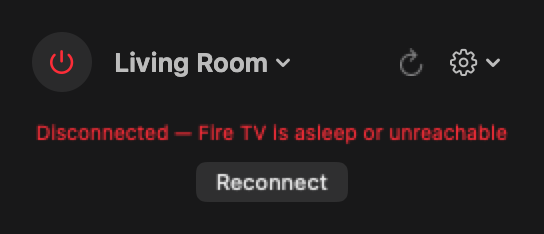
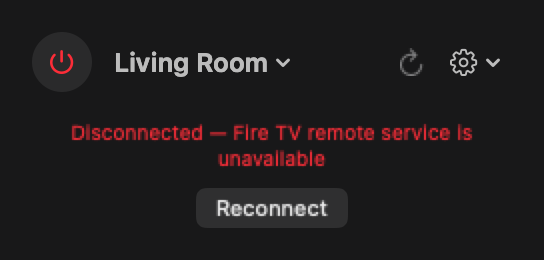
Separate live and saved TVs and diagnose stopped Fire TV remote service

diff --git a/Sources/UniversalTVRemote/Discovery.swift b/Sources/UniversalTVRemote/Discovery.swift
@@ -28,6 +28,14 @@ final class DiscoveryEngine: NSObject, ObservableObject {
     /// Everything we know about: remembered devices merged with live finds.
     @Published private(set) var devices: [DiscoveredTV] = []
     @Published private(set) var isScanning = false
+    @Published private(set) var availableDeviceIDs: Set<String> = []
+
+    var availableDevices: [DiscoveredTV] { devices.filter { availableDeviceIDs.contains($0.id) } }
+    var savedDevices: [DiscoveredTV] { devices.filter { !availableDeviceIDs.contains($0.id) } }
+    private var bonjourServices: [String: String] = [:]
+    private var announcedServices: Set<String> = []
+    private var lastSeen: [String: Date] = [:]
+    private var refreshTimer: Timer?
 
     private var browsers: [NWBrowser] = []
     private let ssdpQueue = DispatchQueue(label: "ssdp.scan", qos: .utility)
@@ -54,10 +62,18 @@ final class DiscoveryEngine: NSObject, ObservableObject {
         startBonjourBrowser(serviceType: "_androidtvremote2._tcp", brand: .androidTV)
         startBonjourBrowser(serviceType: "_amzn-wplay._tcp", brand: .fireTV)
         scan()
+        refreshTimer?.invalidate()
+        refreshTimer = Timer.scheduledTimer(withTimeInterval: 15, repeats: true) { [weak self] _ in
+            self?.refreshAvailability()
+            self?.scan()
+        }
     }
 
     /// Local-only migration; never starts discovery or contacts a TV.
     func loadRememberedDevices() {
+        lastSeen = [:]
+        bonjourServices = [:]
+        refreshAvailability()
         aliases = defaults.dictionary(forKey: "discoveryAliases") as? [String: String] ?? [:]
         customNames = (defaults.dictionary(forKey: DiscoveryEngine.customNamesKey)
                        as? [String: String]) ?? [:]
@@ -73,7 +89,7 @@ final class DiscoveryEngine: NSObject, ObservableObject {
                 }
                 return rank($0) < rank($1)
             }
-            for device in ordered { upsert(device) }
+            for device in ordered { upsert(device, discovered: false) }
         }
     }
 
@@ -90,6 +106,9 @@ final class DiscoveryEngine: NSObject, ObservableObject {
     /// Drop a TV from the remembered list (Settings → Forget).
     func forget(_ device: DiscoveredTV) {
         devices.removeAll { $0.id == device.id }
+        lastSeen[device.id] = nil
+        bonjourServices = bonjourServices.filter { $0.value != device.id }
+        refreshAvailability()
         customNames[device.id] = nil
         defaults.set(customNames, forKey: DiscoveryEngine.customNamesKey)
         persist()
@@ -128,6 +147,21 @@ final class DiscoveryEngine: NSObject, ObservableObject {
             for: .bonjourWithTXTRecord(type: serviceType, domain: nil),
             using: NWParameters())
         browser.browseResultsChangedHandler = { [weak self] results, _ in
+            guard let self else { return }
+            let prefix = brand.rawValue + ":"
+            let announced = Set(results.compactMap { result -> String? in
+                guard case .service(let name, _, _, _) = result.endpoint else { return nil }
+                return prefix + name
+            })
+            self.announcedServices = self.announcedServices.filter { !$0.hasPrefix(prefix) }.union(announced)
+            self.bonjourServices = self.bonjourServices.filter { !$0.key.hasPrefix(prefix) || announced.contains($0.key) }
+            for rawID in announced {
+                let identity = DiscoveredTV(id: rawID, brand: brand, name: "", host: "").discoveryIdentity
+                if let known = self.devices.first(where: { $0.id == identity || $0.id == self.aliases[identity] }) {
+                    self.bonjourServices[rawID] = known.id
+                }
+            }
+            self.refreshAvailability()
             for result in results {
                 guard case .service(let name, _, _, _) = result.endpoint else { continue }
                 // TXT records sometimes carry a friendlier name than the mDNS
@@ -140,7 +174,7 @@ final class DiscoveryEngine: NSObject, ObservableObject {
                 if brand == .fireTV, friendly.hasPrefix("amzn.dmgr") {
                     friendly = "Fire TV"
                 }
-                self?.resolveAndUpsert(endpoint: result.endpoint, serviceName: name,
+                self.resolveAndUpsert(endpoint: result.endpoint, serviceName: name,
                                        displayName: friendly, brand: brand)
             }
         }
@@ -183,7 +217,11 @@ final class DiscoveryEngine: NSObject, ObservableObject {
                     id: "\(brand.rawValue):\(serviceName)",
                     brand: brand, name: displayName, host: ip, port: nil)
                 NSLog("[discovery] resolved \(displayName) (\(brand.rawValue)) → \(ip)")
-                self?.upsert(device)
+                if let self, self.announcedServices.contains(device.id) {
+                    let merged = self.upsert(device, discovered: false)
+                    self.bonjourServices[device.id] = merged.id
+                    self.refreshAvailability()
+                }
             }
             connection.cancel()
         }
@@ -364,7 +402,7 @@ final class DiscoveryEngine: NSObject, ObservableObject {
     /// Insert or refresh one device, keeping any better name we already had,
     /// and persist so the list survives restarts.
     @discardableResult
-    func upsert(_ incoming: DiscoveredTV) -> DiscoveredTV {
+    func upsert(_ incoming: DiscoveredTV, discovered: Bool = true) -> DiscoveredTV {
         let device = DiscoveredTV(id: incoming.discoveryIdentity, brand: incoming.brand,
                                   name: incoming.name, host: incoming.host, port: incoming.port)
         let index = devices.firstIndex {
@@ -404,7 +442,17 @@ final class DiscoveryEngine: NSObject, ObservableObject {
             devices.sort { $0.name < $1.name }
         }
         persist()
+        if discovered { lastSeen[retainedID] = Date() }
+        refreshAvailability()
         return devices.first { $0.id == retainedID }!
+    }
+
+    /// Discovery availability is separate from remote-service connectivity.
+    /// Saved devices never become live merely because preferences were loaded.
+    func refreshAvailability(now: Date = Date()) {
+        lastSeen = lastSeen.filter { now.timeIntervalSince($0.value) < 45 }
+        let current = Set(bonjourServices.values).union(lastSeen.keys)
+        if current != availableDeviceIDs { availableDeviceIDs = current }
     }
 
     private func persist() {

diff --git a/Tests/UniversalTVRemoteTests/FireTVTests.swift b/Tests/UniversalTVRemoteTests/FireTVTests.swift
@@ -3,14 +3,14 @@ import Foundation
 @testable import UniversalTVRemote
 
 private final class StubURLProtocol: URLProtocol {
-    static var handler: ((URLRequest) throws -> HTTPURLResponse)?
+    static var handler: ((URLRequest) throws -> (HTTPURLResponse, Data))?
     override class func canInit(with request: URLRequest) -> Bool { true }
     override class func canonicalRequest(for request: URLRequest) -> URLRequest { request }
     override func startLoading() {
         do {
-            let response = try Self.handler!(request)
+            let (response, data) = try Self.handler!(request)
             client?.urlProtocol(self, didReceive: response, cacheStoragePolicy: .notAllowed)
-            client?.urlProtocol(self, didLoad: Data("[]".utf8))
+            client?.urlProtocol(self, didLoad: data)
             client?.urlProtocolDidFinishLoading(self)
         } catch { client?.urlProtocol(self, didFailWithError: error) }
     }
@@ -38,7 +38,7 @@ struct FireTVTests {
         StubURLProtocol.handler = { request in
             requests.append(request)
             if !reachable { throw URLError(.cannotConnectToHost) }
-            return HTTPURLResponse(url: request.url!, statusCode: 200, httpVersion: nil, headerFields: nil)!
+            return (HTTPURLResponse(url: request.url!, statusCode: 200, httpVersion: nil, headerFields: nil)!, Data("[]".utf8))
         }
         var connected = false
         driver.onStateChange = { if $0 == .connected { connected = true } }
@@ -57,7 +57,7 @@ struct FireTVTests {
         driver.disconnect()
         #expect(!requests.isEmpty)
         #expect(requests.allSatisfy { $0.httpMethod == "GET" })
-        #expect(requests.allSatisfy { $0.url?.path == "/v1/FireTV/apps" })
+        #expect(requests.allSatisfy { ["/v1/FireTV/apps", "/apps/FireTVRemote"].contains($0.url?.path ?? "") })
     }
 
     @Test @MainActor
@@ -69,7 +69,7 @@ struct FireTVTests {
         var count = 0
         StubURLProtocol.handler = { request in
             count += 1
-            return HTTPURLResponse(url: request.url!, statusCode: 401, httpVersion: nil, headerFields: nil)!
+            return (HTTPURLResponse(url: request.url!, statusCode: 401, httpVersion: nil, headerFields: nil)!, Data())
         }
         var rejected = false
         driver.onStateChange = { if case .failed = $0 { rejected = true } }
@@ -78,5 +78,29 @@ struct FireTVTests {
         driver.checkHealth()
         driver.disconnect()
         #expect(count == 1)
+    }
+
+    @Test @MainActor
+    func testStoppedRemoteServiceIsExplainedWithoutStartingIt() async {
+        let config = URLSessionConfiguration.ephemeral
+        config.protocolClasses = [StubURLProtocol.self]
+        let driver = FireTVDriver(device: DiscoveredTV(id: "fireTV:test", brand: .fireTV,
+                                  name: "Test TV", host: "192.0.2.1"), configuration: config)
+        var requests: [URLRequest] = []
+        StubURLProtocol.handler = { request in
+            requests.append(request)
+            if request.url?.port == 8080 { throw URLError(.cannotConnectToHost) }
+            return (HTTPURLResponse(url: request.url!, statusCode: 200, httpVersion: nil, headerFields: nil)!,
+                    Data("<service><state>stopped</state></service>".utf8))
+        }
+        var stopped = false
+        driver.onStateChange = {
+            if case .failed(let message) = $0 { stopped = message.contains("remote service is stopped") }
+        }
+        driver.connect(token: "test-token")
+        await waitFor { stopped }
+        driver.disconnect()
+        #expect(requests.count == 2)
+        #expect(requests.allSatisfy { $0.httpMethod == "GET" })
     }
 }

diff --git a/Sources/UniversalTVRemote/App.swift b/Sources/UniversalTVRemote/App.swift
@@ -264,31 +264,39 @@ struct RemoteView: View {
             if state.discovery.devices.isEmpty {
                 Text("No TVs found yet")
             }
-            ForEach(state.discovery.devices) { device in
-                Button {
-                    state.select(device)
-                } label: {
-                    Label("\(state.discovery.displayName(for: device))  ·  \(device.brand.displayName)",
-                          systemImage: device.brand.symbolName)
+            if !state.discovery.availableDevices.isEmpty {
+                Section("Discovered on this network") {
+                    ForEach(state.discovery.availableDevices) { device in
+                        deviceMenuItem(device)
+                    }
+                }
+            }
+            if !state.discovery.savedDevices.isEmpty {
+                Section("Saved · not currently discovered") {
+                    ForEach(state.discovery.savedDevices) { device in
+                        deviceMenuItem(device)
+                    }
                 }
             }
             Divider()
             Button("Add TV by IP…") { addingManually = true }
         } label: {
-            // borderlessButton menus draw their own disclosure chevron.
-            // No .fixedSize() here — it would force the label to its full
-            // text width and shove the power button and gear off the popover.
             Text(state.session.map(displayName) ?? "Choose a TV")
                 .font(.system(size: 13, weight: .semibold))
                 .lineLimit(1)
                 .truncationMode(.tail)
-                // FIXED width (not maxWidth) directly on the label: proposes
-                // exactly this width to the Text so it always truncates,
-                // regardless of how the Menu propagates layout. Leaves room
-                // for the power button, refresh, and gear in the 272 pt row.
                 .frame(width: 132, alignment: .leading)
         }
         .menuStyle(.borderlessButton)
+    }
+
+    private func deviceMenuItem(_ device: DiscoveredTV) -> some View {
+        Button {
+            state.select(device)
+        } label: {
+            Label("\(state.discovery.displayName(for: device))  ·  \(device.brand.displayName)",
+                  systemImage: device.brand.symbolName)
+        }
     }
 
     /// The name to show for a session's TV: the user's custom nickname if set,

diff --git a/Sources/UniversalTVRemote/FireTV.swift b/Sources/UniversalTVRemote/FireTV.swift
@@ -156,7 +156,29 @@ final class FireTVDriver: NSObject, TVDriver, URLSessionDelegate {
                     if !wasReachable { self.fetchInstalledApps() }
                 } else {
                     self.isReachable = false
-                    self.onStateChange?(.failed("Disconnected — Fire TV is asleep or unreachable"))
+                    self.explainUnavailable(generation: currentGeneration)
+                }
+            }
+        }
+        healthTask?.resume()
+    }
+
+    /// A powered-on Fire TV can have its remote app stopped. DIAL exposes
+    /// that state through GET; checking it must never launch the app.
+    private func explainUnavailable(generation currentGeneration: Int) {
+        let request = URLRequest(url: URL(string: "http://\(device.host):8009/apps/FireTVRemote")!,
+                                 cachePolicy: .reloadIgnoringLocalCacheData, timeoutInterval: 2)
+        healthTask = session.dataTask(with: request) { [weak self] data, response, _ in
+            DispatchQueue.main.async {
+                guard let self, self.generation == currentGeneration else { return }
+                self.healthTask = nil
+                let xml = String(data: data ?? Data(), encoding: .utf8) ?? ""
+                if (response as? HTTPURLResponse)?.statusCode == 200,
+                   xml.contains("<state>stopped</state>") {
+                    self.onStateChange?(.failed("Fire TV is online, but its remote service is stopped. "
+                        + "Use the power button to start it, then reconnect."))
+                } else {
+                    self.onStateChange?(.failed("Disconnected — Fire TV remote service is unavailable"))
                 }
             }
         }

diff --git a/Tests/UniversalTVRemoteTests/DiscoveryTests.swift b/Tests/UniversalTVRemoteTests/DiscoveryTests.swift
@@ -4,6 +4,24 @@ import Foundation
 
 struct DiscoveryTests {
     @Test
+    func testRememberedDevicesStaySeparateFromLiveDiscoveryAndExpire() throws {
+        let suite = "DiscoveryTests.\(UUID())"
+        let defaults = UserDefaults(suiteName: suite)!
+        defer { defaults.removePersistentDomain(forName: suite) }
+        let tv = DiscoveredTV(id: "fireTV:demo", brand: .fireTV, name: "TV", host: "192.0.2.1")
+        defaults.set(try JSONEncoder().encode([tv]), forKey: "rememberedDevices")
+        let discovery = DiscoveryEngine(defaults: defaults)
+        discovery.loadRememberedDevices()
+        #expect(discovery.availableDevices.isEmpty)
+        #expect(discovery.savedDevices == [tv])
+        discovery.upsert(tv)
+        #expect(discovery.availableDevices == [tv])
+        #expect(discovery.savedDevices.isEmpty)
+        discovery.refreshAvailability(now: Date().addingTimeInterval(46))
+        #expect(discovery.availableDevices.isEmpty)
+        #expect(discovery.savedDevices == [tv])
+    }
+    @Test
     func testLegacyDuplicatesPreserveSelectionPairingAndNickname() throws {
         let suite = "DiscoveryTests.\(UUID())"
         let defaults = UserDefaults(suiteName: suite)!

diff --git a/Tests/UniversalTVRemoteTests/ScreenshotTests.swift b/Tests/UniversalTVRemoteTests/ScreenshotTests.swift
@@ -36,7 +36,7 @@ struct ScreenshotTests {
         let state = AppState(discovery: discovery, initialSession: session, startsDiscovery: false, defaults: defaults)
         try FileManager.default.createDirectory(atPath: directory, withIntermediateDirectories: true)
         for (filename, status) in [("remote-connected.png", SessionState.connected),
-                                   ("remote-disconnected.png", .failed("Disconnected — Fire TV is asleep or unreachable"))] {
+                                   ("remote-disconnected.png", .failed("Disconnected — Fire TV remote service is unavailable"))] {
             driver.nextState = status
             session.connect()
             await Task.yield()

diff --git a/README.md b/README.md
@@ -20,7 +20,10 @@ views using an offline demo device. Demo app tiles use letter placeholders.
   your local network. Known devices appear immediately at startup. Fire TV
   service changes and multiple discovery protocols merge into one entry;
   existing duplicates are cleaned up while keeping pairing credentials,
-  custom names, and the selected TV.
+  custom names, and the selected TV. The picker separates **Discovered on
+  this network** from **Saved · not currently discovered**, so remembered
+  devices are not presented as current discoveries. Discovery refreshes
+  periodically; SSDP sightings expire after 45 seconds without a new reply.
 - **Automatic connection:** restores the last selected, already paired TV
   at launch and follows discovery updates when its IP address changes.
   A single paired TV can be selected automatically. New TVs require an
@@ -70,13 +73,20 @@ Roku does not require pairing. Credentials are remembered for later use.
 “Connected” means the TV's **remote service** is reachable, rather than a
 measurement of the display's power state. A separately powered Fire TV
 Stick can remain reachable when its attached television is off. Fire TV
-and Roku status changes normally appear within about five seconds of a
-service becoming unreachable, subject to system sleep and network delays.
+and Roku status changes normally appear within a few seconds of a service
+becoming unreachable, subject to system sleep and network delays. Fire TV
+can take up to about seven seconds when a failed remote check is followed
+by the read-only DIAL service check.
 
 Automatic connection, monitoring, and Fire TV reconnection do **not** send
 wake commands. Use the power button explicitly to wake or sleep the TV.
 An unavailable TV stays disconnected with a **Reconnect** button. A revoked
 Fire TV token requires **Settings → Re-pair**.
+
+If a Fire TV is on but cannot connect, the app reads its DIAL service status.
+When `FireTVRemote` is stopped, it explains that the remote service needs
+to be started. The power button explicitly starts/wakes that service;
+background checks and **Reconnect** never start it automatically.
 
 ## Per-brand notes
 
